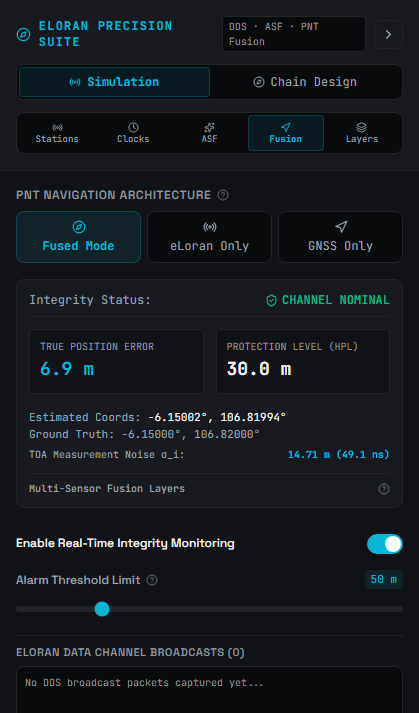
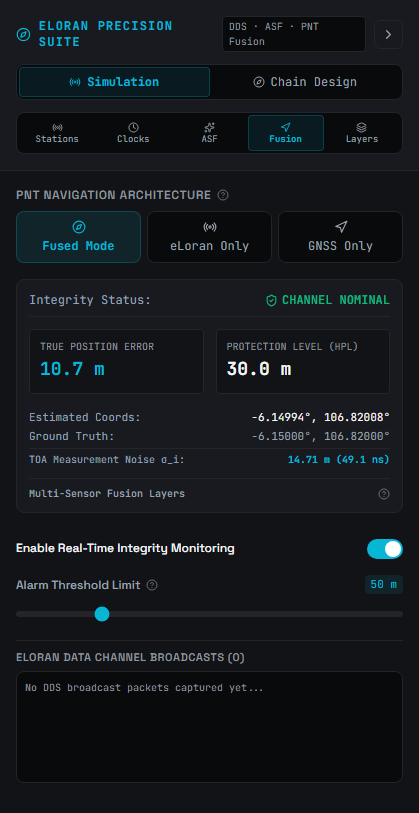
ui: flush telemetry coordinate and noise data on the right margin in FusionPanel

diff --git a/src/components/panels/FusionPanel.jsx b/src/components/panels/FusionPanel.jsx
@@ -117,19 +117,25 @@ export default function FusionPanel() {
         </div>
 
         {fix?.lat !== undefined && (
-          <div className="text-[11px] space-y-0.5 pt-1" style={{ color: 'var(--text-muted)' }}>
-            <div>
-              Estimated Coords: <span style={{ color: 'var(--text-primary)' }}>{fix.lat.toFixed(5)}°, {fix.lng.toFixed(5)}°</span>
+          <div className="text-[11px] space-y-1 pt-1" style={{ color: 'var(--text-muted)' }}>
+            <div className="flex justify-between items-center">
+              <span>Estimated Coords:</span>
+              <span className="font-mono text-right" style={{ color: 'var(--text-primary)' }}>
+                {fix.lat.toFixed(5)}°, {fix.lng.toFixed(5)}°
+              </span>
             </div>
             {rx && (
-              <div>
-                Ground Truth: <span style={{ color: 'var(--text-secondary)' }}>{rx.lat.toFixed(5)}°, {rx.lng.toFixed(5)}°</span>
+              <div className="flex justify-between items-center">
+                <span>Ground Truth:</span>
+                <span className="font-mono text-right" style={{ color: 'var(--text-secondary)' }}>
+                  {rx.lat.toFixed(5)}°, {rx.lng.toFixed(5)}°
+                </span>
               </div>
             )}
             {fix.toaNoiseStdDevMeters !== undefined && (
-              <div className="flex justify-between items-center pt-1 text-[10px]">
+              <div className="flex justify-between items-center pt-1 text-[10px]" style={{ borderTop: '1px solid var(--border-subtle)' }}>
                 <span className="text-[var(--text-muted)]">TOA Measurement Noise σ_i:</span>
-                <span className="text-[var(--accent-eloran)] font-bold">
+                <span className="text-[var(--accent-eloran)] font-bold font-mono text-right">
                   {fix.toaNoiseStdDevMeters.toFixed(2)} m ({(fix.toaNoiseStdDevMeters / 0.299792).toFixed(1)} ns)
                 </span>
               </div>

diff --git a/e2e/capture-sidebar-declutter.spec.js b/e2e/capture-sidebar-declutter.spec.js
@@ -10,7 +10,7 @@ if (!fs.existsSync(OUT_DIR)) {
 test('capture decluttered sidebar panels across Loran-C and eLoran', async ({ page }) => {
   await page.setViewportSize({ width: 1280, height: 900 });
 
-  // 1. Loran-C Display Panel (Dark Mode) - Click Layers tab
+  // 1. Loran-C Display Panel (Dark Mode)
   await page.goto('/loran-c');
   await page.waitForLoadState('networkidle');
   await page.evaluate(() => {
@@ -32,4 +32,24 @@ test('capture decluttered sidebar panels across Loran-C and eLoran', async ({ pa
   });
   await page.waitForTimeout(400);
   await sidebar.screenshot({ path: path.join(OUT_DIR, 'sidebar_loran_c_display_light.png') });
+
+  // 3. eLoran Fusion Panel (Dark Mode)
+  await page.goto('/eloran');
+  await page.waitForLoadState('networkidle');
+  await page.evaluate(() => {
+    document.documentElement.setAttribute('data-theme', 'dark');
+    localStorage.setItem('theme', 'dark');
+  });
+  const fusionTab = page.getByRole('button', { name: /^Fusion$/i });
+  await fusionTab.click();
+  await page.waitForTimeout(400);
+  await sidebar.screenshot({ path: path.join(OUT_DIR, 'sidebar_eloran_fusion_dark.png') });
+
+  // 4. eLoran Fusion Panel (Light Mode)
+  await page.evaluate(() => {
+    document.documentElement.setAttribute('data-theme', 'light');
+    localStorage.setItem('theme', 'light');
+  });
+  await page.waitForTimeout(400);
+  await sidebar.screenshot({ path: path.join(OUT_DIR, 'sidebar_eloran_fusion_light.png') });
 });
